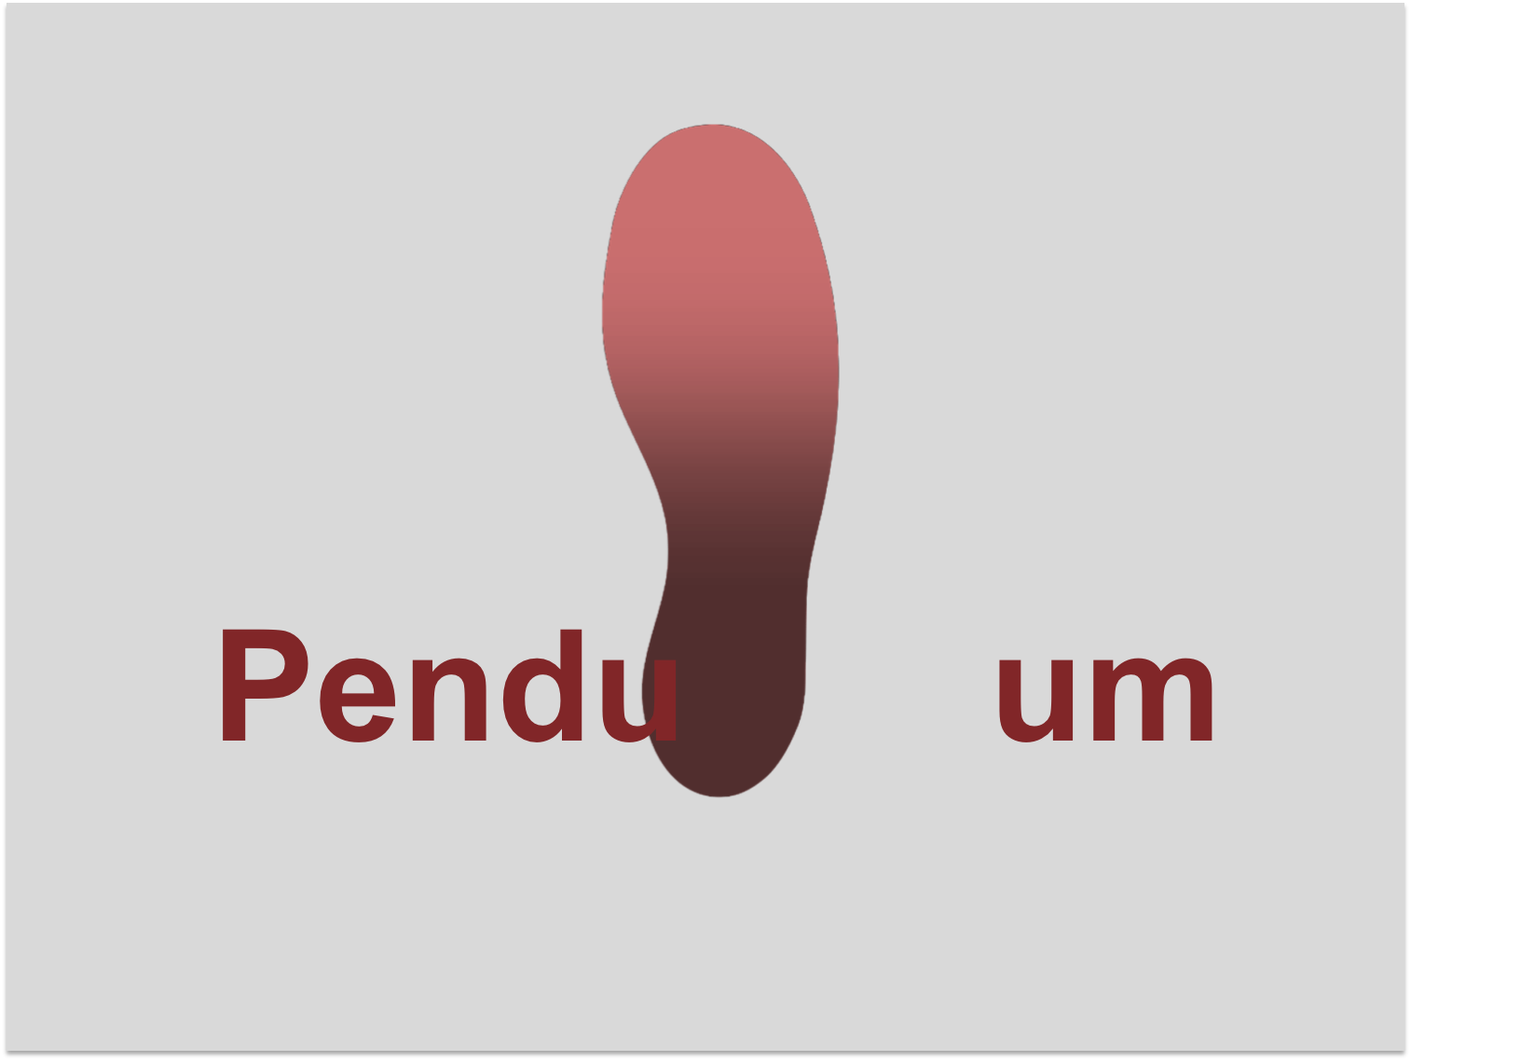
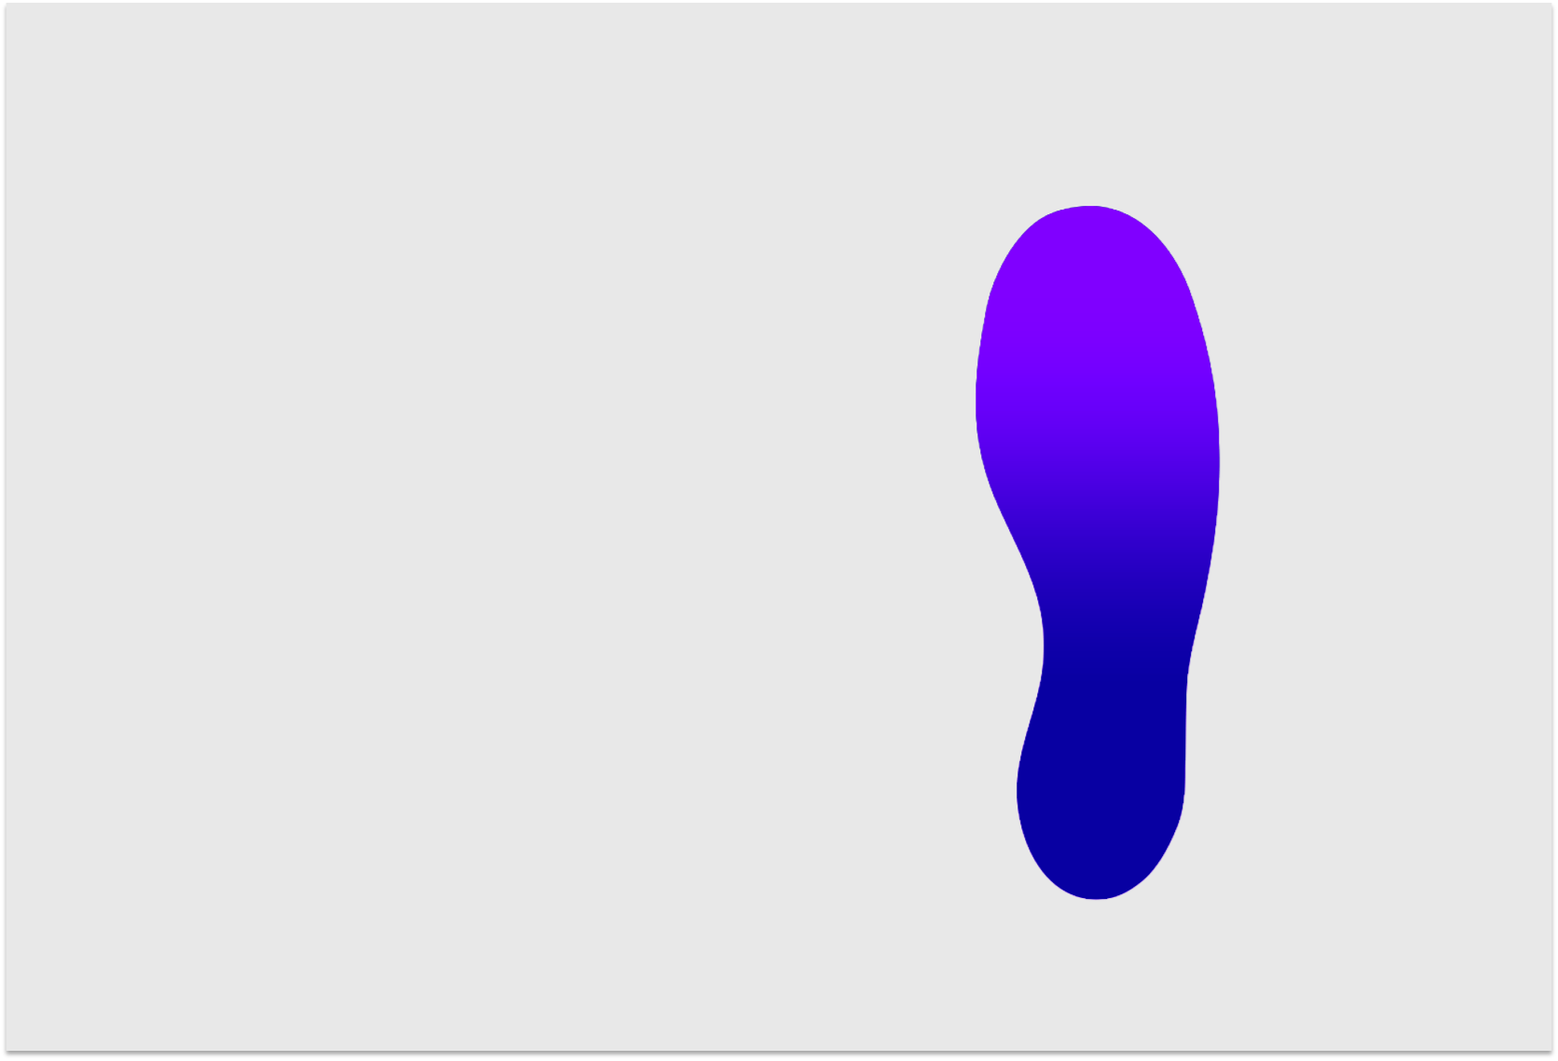
First Version

Changed region(s): [[0.1239, 0.0922, 0.5577, 0.7682], [0.6197, 0.1844, 0.8056, 0.8604], [0.8985, 0.0, 1.0, 1.0]]

diff --git a/index.html b/index.html
@@ -11,7 +11,7 @@
 	function gtag(){dataLayer.push(arguments);}
 	gtag('js', new Date());
 
-	gtag('config', 'UA-119793705-1');
+	gtag(config', 'UA-119793705-1');
 	</script>
 
 
@@ -47,7 +47,7 @@
     <nav class="navbar navbar-expand-lg navbar-dark fixed-top" id="mainNav">
       <div class="container">
          <a class="navbar-brand" href="#">
-          <img src="img/sole.png" width="160" height="80" alt="">
+          <img src="img/sole.png" width="40" height="70" alt="">
         </a>
 		  <button class="navbar-toggler navbar-toggler-right" type="button" data-toggle="collapse" data-target="#navbarResponsive" aria-controls="navbarResponsive" aria-expanded="false" aria-label="Toggle navigation">
           <span class="navbar-toggler-icon"></span>
@@ -58,7 +58,7 @@
 				<a class="nav-link js-scroll-trigger"href="#about">About</a>
             </li>
 			<li class="nav-item">
-              <a class="nav-link js-scroll-trigger" href="#services">How it works</a>
+              <a class="nav-link js-scroll-trigger" href="#services">Features</a>
 			</li>
             <li class="nav-item">
               <a class="nav-link js-scroll-trigger" href="#team">Team</a>
@@ -74,30 +74,60 @@
       </div>
     </nav>
 
-    <header class="masthead text-center text-white d-flex">
-      <div class="container my-auto">
-        <div class="row">
-          <div class="col-lg-10 mx-auto">
+
+
+    <header class="masthead">
+      <div class="container h-100">
+        <div class="row h-100">
+          <div class="col-lg-7 my-auto">
             <h1 class="text-uppercase">
-              <strong>The connected wearable device for senior adults</strong>
+				<strong>Pendulum</strong> <br><h2 class="section-heading">The smart insole for senior adults</h2>
             </h1>
-            <hr>
           </div>
-          <div class="col-lg-8 mx-auto">
-			  <p><strong>Pendulum is the IoT insole that connects ...</strong></p>
-            <a class="btn btn-primary btn-xl js-scroll-trigger" href="#about">Find Out More</a>
+
           </div>
         </div>
       </div>
     </header>
 
-    <section class="bg-primary" id="about">
+
+        <!--
+      <header class="masthead">
+      <div class="container h-100">
+        <div class="row h-100">
+          <div class="col-lg-7 my-auto">
+            <div class="header-content mx-auto">
+              <h1 class="mb-5">Pendulum is the smart insole that prevents falls in senior adults</h1>
+              <a href="#download" class="btn btn-outline btn-xl js-scroll-trigger">Start Now for Free!</a>
+            </div>
+          </div>
+          <div class="col-lg-5 my-auto">
+          <div class="device-container">
+              <div class="device-mockup iphone6_plus portrait white">
+                <div class="device">
+                  <div class="screen">
+                    Demo image for screen mockup, you can put an image here, some HTML, an animation, video, or anything else!
+						 <img src="img/sole.png" class="img-fluid" alt="">
+                  </div>
+                  <div class="button">
+                     You can hook the "home button" to some JavaScript events or just remove it
+                  </div>
+                </div>
+              </div>
+            </div>
+          </div>
+        </div>
+      </div>
+    </header>
+	--!>
+
+ <section class="bg-primary" id="about">
       <div class="container">
         <div class="row">
           <div class="col-lg-8 mx-auto text-center">
-			  <h2 class="section-heading text-white"> IoT is for millenials<br> IoT is for the elderly</h2>
+			  <h2 class="section-heading text-white"> IoT for the elderly<br> </h2>
             <hr class="light my-4">
-			<p class="text-faded mb-4">The current tests for AD detection are time consuming and focused on late stages of the disease. Philyra uses AI to design non invasive and real time tests that can speed up patient treatments and cut medical costs.   </p>
+			<p class="text-faded mb-4"> Our connected insole allows senior adults and their relatives to track their gait characteristics and get recommendations on simple but effective exercises targeted at preventing the risk of falling  </p>
             <a class="btn btn-light btn-xl js-scroll-trigger" href="#services">Get Started!</a>
           </div>
         </div>
@@ -105,7 +135,107 @@
     </section>
 
 
-    <!-- Services -->
+	<section class="bg-light" id="about">
+	<div class="container">
+	<div class="row">
+	<div class="col-lg-12 text-center">
+	<h2 class="section-heading">About Pendulum</h2>
+	<hr class="my-4">
+	</div>
+	</div>
+	<div class="text-center">
+	<img src="img/howitworks.png" class="img-responsive" width="1200">
+	</div>
+	</div>
+	</section>
+
+
+
+	<section class="bg-light" id="services">
+	<div class="container">
+	<div class="row">
+	<div class="col-lg-12 text-center">
+	<h2 class="section-heading">How it works</h2>
+	<hr class="my-4">
+	</div>
+	</div>
+	<div class="text-center">
+	<img src="img/about.png" class="img-responsive" width="1200">
+	</div>
+	</div>
+	</section>
+
+
+
+     <!--
+        <section class="features" id="features">
+      <div class="container">
+        <div class="section-heading text-center">
+          <h2>Unlimited Features, Unlimited Fun</h2>
+          <p class="text-muted">Check out what you can do with this app theme!</p>
+          <hr>
+        </div>
+        <div class="row">
+          <div class="col-lg-4 my-auto">
+            <div class="device-container">
+              <div class="device-mockup iphone6_plus portrait white">
+                <div class="device">
+                  <div class="screen">
+                    <img src="img/img1" class="img-fluid" alt="">
+                  </div>
+                  <div class="button">
+
+                  </div>
+                </div>
+              </div>
+            </div>
+          </div>
+          <div class="col-lg-8 my-auto">
+            <div class="container-fluid">
+              <div class="row">
+                <div class="col-lg-6">
+                  <div class="feature-item">
+                    <i class="icon-screen-smartphone text-primary"></i>
+                    <h3>Device Mockups</h3>
+                    <p class="text-muted">Ready to use HTML/CSS device mockups, no Photoshop required!</p>
+                  </div>
+                </div>
+                <div class="col-lg-6">
+                  <div class="feature-item">
+                    <i class="icon-camera text-primary"></i>
+                    <h3>Flexible Use</h3>
+                    <p class="text-muted">Put an image, video, animation, or anything else in the screen!</p>
+                  </div>
+                </div>
+              </div>
+              <div class="row">
+                <div class="col-lg-6">
+                  <div class="feature-item">
+                    <i class="icon-present text-primary"></i>
+                    <h3>Free to Use</h3>
+                    <p class="text-muted">As always, this theme is free to download and use for any purpose!</p>
+                  </div>
+                </div>
+                <div class="col-lg-6">
+                  <div class="feature-item">
+                    <i class="icon-lock-open text-primary"></i>
+                    <h3>Open Source</h3>
+                    <p class="text-muted">Since this theme is MIT licensed, you can use it commercially!</p>
+                  </div>
+                </div>
+              </div>
+            </div>
+          </div>
+        </div>
+      </div>
+    </section>
+
+
+	--!>
+
+
+
+	<!-- Services
     <section id="services">
       <div class="container">
         <div class="row">
@@ -116,11 +246,9 @@
         </div>
         <div class="row text-center">
           <div class="col-md-4">
-            <span class="fa-stack fa-4x">
-              <i class="fa fa-circle fa-stack-2x text-primary"></i>
-              <i class="fa fa-file-text-o fa-stack-1x fa-inverse"></i>
-            </span>
-			<h4 class="service-heading">Upload you olfactory data</h4>
+              <img src="img/img1.png" class="img-responsive">
+			  </div>
+			<h4 class="service-heading">You have your profile </h4>
             <p class="text-muted">Just upload your file, we take care of the format. Your data stays anonymous and private</p> </div>
           <div class="col-md-4">
             <span class="fa-stack fa-4x">
@@ -141,9 +269,9 @@
         </div>
       </div>
 	</section>
-
-
-
+	-->
+	--!>
+   <!--
 
 	<section class="bg-dark text-white">
 		<div class="container text-center">
@@ -151,6 +279,12 @@
 			<a class="btn btn-light btn-xl sr-button" href="mailto:info@philyra.io">Ask us how to upload your data</a>
 		</div>
 	</section>
+
+	--!>
+
+
+
+
 
     <!-- Team -->
     <section class="bg-light" id="team">
@@ -166,38 +300,38 @@
           <div class="col-md-6">
 			  <!-- <div class="col-sm-6 text-center"> -->
 			  <div class="team-member">
-              <img class="mx-auto rounded-circle" src="img/Micol.png" alt="">
-			  <p></p>
-			  <h4>Dr Micol de Ruvo</h4>
-			  <!--  <p class="text-muted">Co-Founder</p>  -->
-			  <!-- <div class="col-sm-9 text-center" -->
-			  <p class="text-muted">Masters in Biomedical Engineering and PhD in Computational Biology, with extensive experience in using algorithms to solve challenges in life science</p>
-			  <ul class="list-inline social-buttons">
-				<li class="list-inline-item">
-                   <a href="https://www.linkedin.com/in/micol-de-ruvo/">
-					<i class="fa fa-linkedin"></i>
-				   </a>
-                </li>
-               </ul>
-			   <!--   </div>  -->
-			</div>
-          </div>
-          <div class="col-sm-6 text-center">
-            <div class="team-member">
-              <img class="mx-auto rounded-circle" src="img/AlexDancu.png" alt="">
-			  <p></p>
-			  <h4>Dr Alexander Dancu</h4>
-			  <!--  <p class="text-muted">Co-Founder</p>  -->
-              <p class="text-muted">PhD in Human-Computer interaction and Postdoc in Singapore and MIT Media Lab</p>
-			  <ul class="list-inline social-buttons">
-                <li class="list-inline-item">
-                  <a href="https://www.linkedin.com/in/alexandru-dancu/">
-                    <i class="fa fa-linkedin"></i>
-                  </a>
-                </li>
-              </ul>
-            </div>
-          </div>
+				<img class="mx-auto rounded-circle" src="img/AlexDancu.png" alt="">
+					  <p></p>
+					  <h4>Dr Alexandru Dancu</h4>
+					  <!--  <p class="text-muted">Co-Founder</p>  -->
+					  <p class="text-muted">Masters in Embedded Systems, PhD in Human-Computer Interaction and Postdoc at MIT Media Lab and Augmented Human Lab, where he gained solid experience in wearable devices. </p>
+					  <ul class="list-inline social-buttons">
+						  <li class="list-inline-item">
+							  <a href="https://www.linkedin.com/in/alexandru-dancu/">
+								  <i class="fa fa-linkedin"></i>
+							  </a>
+						  </li>
+					  </ul>
+				  </div>
+			  </div>
+              <div class="col-sm-6 text-center">
+			  <div class="team-member">
+				  <img class="mx-auto rounded-circle" src="img/Micol.png" alt="">
+				  <p></p>
+				  <h4>Dr Micol de Ruvo</h4>
+				  <!--  <p class="text-muted">Co-Founder</p>  -->
+				  <!-- <div class="col-sm-9 text-center" -->
+				  <p class="text-muted">Masters in Biomedical Engineering and PhD in Computational Biology, with extensive experience in using algorithms to solve challenges in life science</p>
+				  <ul class="list-inline social-buttons">
+					  <li class="list-inline-item">
+						  <a href="https://www.linkedin.com/in/micol-de-ruvo/">
+							  <i class="fa fa-linkedin"></i>
+						  </a>
+					  </li>
+				  </ul>
+				  <!--   </div>  -->
+			  </div>
+		  </div>
       </div>
     </section>
 
@@ -207,20 +341,20 @@
       <div class="container">
         <div class="row">
           <div class="col-lg-12 text-center">
-            <h2 class="section-heading">Selected Publications from the Philyra Team</h2>
+            <h2 class="section-heading">Selected Papers from our Team</h2>
 			 <hr class="my-4">
 		  </div>
 		</div>
         <div class="row">
           <div class="col-lg-4 ml-auto">
-			  <p class="text-muted"> Wudarczyk, O. et al. (2015). Chemosensory anxiety cues moderate the experience of social exclusion – an fMRI investigation with Cyberball. Frontiers in Psychology, 6: 1475.
+			  <p class="text-muted">
 			</p>
           </div>
           <div class="col-lg-4 mr-auto">
-            <p class="text-muted">Wudarczyk, O. et al. (2016). Chemosensory anxiety cues enhance the perception of fearful faces – An fMRI study. NeuroImage, 143: 214-222.</p>
+            <p class="text-muted">R. Boldu, A. Dancu, D. J. C. Matthies, T. Buddhika, S. Siriwardhana, and S. Nanayakkara, "FingerReader2.0: Designing and Evaluating a Wearable Finger-WornCamera to Assist People with Visual Impairments while Shopping", in International Conference on Ubiquitous Computing, 2018.</p>
           </div>
 	      <div class="col-lg-4 mr-auto">
-			  <p class="text-muted"> Wudarczyk, O. et al. (2016). Follow your nose: Implicit spatial processing within the chemosensory systems. Journal of Experimental Psychology: Human Perception and Performance, 42(11): 1780-1792.</p>
+			  <p class="text-muted"> </p>
 		</div>
 
        <!--
@@ -286,7 +420,7 @@
     <div class="col-lg-6 mx-auto text-center" id="form_container">
         <h2>Let's get in touch!</h2>
         <p>
-		Ready to collaborate with us or curious to know more about Philyra? <br>Drop us a message, we will contact you the earliest
+		Want to know more about Pendulum? <br>Drop us a message, we will contact you the earliest
         </p>
 		<form action="http://formspree.io/micol.deruvo@gmail.com" method="post"> <!-- id="form" class="contact-form"> -->
 

diff --git a/css/creative.min.css b/css/creative.min.css
@@ -1,1 +1,1 @@
-body,html{width:100%;height:100%}body{font-family:Merriweather,'Helvetica Neue',Arial,sans-serif}hr{max-width:50px;border-width:3px;border-color:#f05f40}hr.light{border-color:#fff}a{color:#f05f40;-webkit-transition:all .2s;-moz-transition:all .2s;transition:all .2s}a:hover{color:#f05f40}h1,h2,h3,h4,h5,h6{font-family:'Open Sans','Helvetica Neue',Arial,sans-serif}.bg-primary{background-color:#f05f40!important}.bg-dark{background-color:#212529!important}.text-faded{color:rgba(255,255,255,.7)}section{padding:8rem 0}.section-heading{margin-top:0}::-moz-selection{color:#fff;background:#212529;text-shadow:none}::selection{color:#fff;background:#212529;text-shadow:none}img::selection{color:#fff;background:0 0}img::-moz-selection{color:#fff;background:0 0}#mainNav{border-bottom:1px solid rgba(33,37,41,.1);background-color:#fff;font-family:'Open Sans','Helvetica Neue',Arial,sans-serif;-webkit-transition:all .2s;-moz-transition:all .2s;transition:all .2s}#mainNav .navbar-brand{font-weight:700;text-transform:uppercase;color:#f05f40;font-family:'Open Sans','Helvetica Neue',Arial,sans-serif}#mainNav .navbar-brand:focus,#mainNav .navbar-brand:hover{color:#f05f40}#mainNav .navbar-nav>li.nav-item>a.nav-link,#mainNav .navbar-nav>li.nav-item>a.nav-link:focus{font-size:.9rem;font-weight:700;text-transform:uppercase;color:#212529}#mainNav .navbar-nav>li.nav-item>a.nav-link:focus:hover,#mainNav .navbar-nav>li.nav-item>a.nav-link:hover{color:#f05f40}#mainNav .navbar-nav>li.nav-item>a.nav-link.active,#mainNav .navbar-nav>li.nav-item>a.nav-link:focus.active{color:#f05f40!important;background-color:transparent}#mainNav .navbar-nav>li.nav-item>a.nav-link.active:hover,#mainNav .navbar-nav>li.nav-item>a.nav-link:focus.active:hover{background-color:transparent}@media (min-width:992px){#mainNav{border-color:transparent;background-color:transparent}#mainNav .navbar-brand{color:rgba(255,255,255,.7)}#mainNav .navbar-brand:focus,#mainNav .navbar-brand:hover{color:#fff}#mainNav .navbar-nav>li.nav-item>a.nav-link{padding:.5rem 1rem}#mainNav .navbar-nav>li.nav-item>a.nav-link,#mainNav .navbar-nav>li.nav-item>a.nav-link:focus{color:rgba(255,255,255,.7)}#mainNav .navbar-nav>li.nav-item>a.nav-link:focus:hover,#mainNav .navbar-nav>li.nav-item>a.nav-link:hover{color:#fff}#mainNav.navbar-shrink{border-bottom:1px solid rgba(33,37,41,.1);background-color:#fff}#mainNav.navbar-shrink .navbar-brand{color:#f05f40}#mainNav.navbar-shrink .navbar-brand:focus,#mainNav.navbar-shrink .navbar-brand:hover{color:#f05f40}#mainNav.navbar-shrink .navbar-nav>li.nav-item>a.nav-link,#mainNav.navbar-shrink .navbar-nav>li.nav-item>a.nav-link:focus{color:#212529}#mainNav.navbar-shrink .navbar-nav>li.nav-item>a.nav-link:focus:hover,#mainNav.navbar-shrink .navbar-nav>li.nav-item>a.nav-link:hover{color:#f05f40}}header.masthead{padding-top:10rem;padding-bottom:calc(10rem - 56px);background-image:url(../img/sole.png);background-position:center center;-webkit-background-size:cover;-moz-background-size:cover;-o-background-size:cover;background-size:cover}header.masthead hr{margin-top:30px;margin-bottom:30px}header.masthead h1{font-size:2rem}header.masthead p{font-weight:300}@media (min-width:768px){header.masthead p{font-size:1.15rem}}@media (min-width:992px){header.masthead{height:100vh;min-height:650px;padding-top:0;padding-bottom:0}header.masthead h1{font-size:3rem}}@media (min-width:1200px){header.masthead h1{font-size:4rem}}.service-box{max-width:400px}.portfolio-box{position:relative;display:block;max-width:650px;margin:0 auto}.portfolio-box .portfolio-box-caption{position:absolute;bottom:0;display:block;width:100%;height:100%;text-align:center;opacity:0;color:#fff;background:rgba(240,95,64,.9);-webkit-transition:all .2s;-moz-transition:all .2s;transition:all .2s}.portfolio-box .portfolio-box-caption .portfolio-box-caption-content{position:absolute;top:50%;width:100%;transform:translateY(-50%);text-align:center}.portfolio-box .portfolio-box-caption .portfolio-box-caption-content .project-category,.portfolio-box .portfolio-box-caption .portfolio-box-caption-content .project-name{padding:0 15px;font-family:'Open Sans','Helvetica Neue',Arial,sans-serif}.portfolio-box .portfolio-box-caption .portfolio-box-caption-content .project-category{font-size:14px;font-weight:600;text-transform:uppercase}.portfolio-box .portfolio-box-caption .portfolio-box-caption-content .project-name{font-size:18px}.portfolio-box:hover .portfolio-box-caption{opacity:1}.portfolio-box:focus{outline:0}@media (min-width:768px){.portfolio-box .portfolio-box-caption .portfolio-box-caption-content .project-category{font-size:16px}.portfolio-box .portfolio-box-caption .portfolio-box-caption-content .project-name{font-size:22px}}.text-primary{color:#f05f40!important}.btn{font-weight:700;text-transform:uppercase;border:none;border-radius:300px;font-family:'Open Sans','Helvetica Neue',Arial,sans-serif}.btn-xl{padding:1rem 2rem}.btn-primary{background-color:#f05f40;border-color:#f05f40}.btn-primary:active,.btn-primary:focus,.btn-primary:hover{color:#fff;background-color:#ee4b28!important}.btn-primary:active,.btn-primary:focus{box-shadow:0 0 0 .2rem rgba(240,95,64,.5)!important}
+body,html{width:100%;height:100%}body{font-family:Merriweather,'Helvetica Neue',Arial,sans-serif}hr{max-width:50px;border-width:3px;border-color:#fff68f}hr.light{border-color:#eae8e7}a{color:#181aa1;-webkit-transition:all .2s;-moz-transition:all .2s;transition:all .2s}a:hover{color:#181aa1}h1,h2,h3,h4,h5,h6{font-family:'Open Sans','Helvetica Neue',Arial,sans-serif}.bg-primary{background-color:#181aa1!important}.bg-dark{background-color:#181aa1!important}.text-faded{color:rgba(255,255,255,.7)}section{padding:8rem 0}.section-heading{margin-top:0}::-moz-selection{color:#eae8e7;background:#181aa1;text-shadow:none}::selection{color:#eae8e7;background:#181aa1;text-shadow:none}img::selection{color:#eae8e7;background:0 0}img::-moz-selection{color:#eae8e7;background:0 0}#mainNav{border-bottom:1px solid rgba(33,37,41,.1);background-color:#181aa1;font-family:'Open Sans','Helvetica Neue',Arial,sans-serif;-webkit-transition:all .2s;-moz-transition:all .2s;transition:all .2s}#mainNav .navbar-brand{font-weight:700;text-transform:uppercase;color:#181aa1;font-family:'Open Sans','Helvetica Neue',Arial,sans-serif}#mainNav .navbar-brand:focus,#mainNav .navbar-brand:hover{color:#181aa1}#mainNav .navbar-nav>li.nav-item>a.nav-link,#mainNav .navbar-nav>li.nav-item>a.nav-link:focus{font-size:.9rem;font-weight:700;text-transform:uppercase;color:#181aa1}#mainNav .navbar-nav>li.nav-item>a.nav-link:focus:hover,#mainNav .navbar-nav>li.nav-item>a.nav-link:hover{color:##181aa1}#mainNav .navbar-nav>li.nav-item>a.nav-link.active,#mainNav .navbar-nav>li.nav-item>a.nav-link:focus.active{color:#181aa1!important;background-color:transparent}#mainNav .navbar-nav>li.nav-item>a.nav-link.active:hover,#mainNav .navbar-nav>li.nav-item>a.nav-link:focus.active:hover{background-color: rgba(33,37,41,.1)}@media (min-width:992px){#mainNav{border-color:transparent;background-color:transparent}#mainNav .navbar-brand{color:rgba(255,255,255,.7)}#mainNav .navbar-brand:focus,#mainNav .navbar-brand:hover{color:#d4cecd}#mainNav .navbar-nav>li.nav-item>a.nav-link{padding:.5rem 1rem}#mainNav .navbar-nav>li.nav-item>a.nav-link,#mainNav .navbar-nav>li.nav-item>a.nav-link:focus{color:#212529}#mainNav .navbar-nav>li.nav-item>a.nav-link:focus:hover,#mainNav .navbar-nav>li.nav-item>a.nav-link:hover{color:#d4cecd}#mainNav.navbar-shrink{border-bottom:1px solid rgba(33,37,41,.1);background-color:#eae8e7}#mainNav.navbar-shrink .navbar-brand{color:#181aa1}#mainNav.navbar-shrink .navbar-brand:focus,#mainNav.navbar-shrink .navbar-brand:hover{color:#f05f40}#mainNav.navbar-shrink .navbar-nav>li.nav-item>a.nav-link,#mainNav.navbar-shrink .navbar-nav>li.nav-item>a.nav-link:focus{color:#212529}#mainNav.navbar-shrink .navbar-nav>li.nav-item>a.nav-link:focus:hover,#mainNav.navbar-shrink .navbar-nav>li.nav-item>a.nav-link:hover{color:#181aa1}}header.masthead{padding-top:10rem;padding-bottom:calc(10rem - 56px);background-image:url(../img/back_image.png);background-position:center center;-webkit-background-size:cover;-moz-background-size:cover;-o-background-size:cover;background-size:cover}header.masthead hr{margin-top:30px;margin-bottom:30px}header.masthead h1{font-size:2rem}header.masthead p{font-weight:300}@media (min-width:768px){header.masthead p{font-size:1.15rem}}@media (min-width:992px){header.masthead{height:100vh;min-height:650px;padding-top:0;padding-bottom:0}header.masthead h1{font-size:3rem}}@media (min-width:1200px){header.masthead h1{font-size:4rem}}.service-box{max-width:400px}.portfolio-box{position:relative;display:block;max-width:650px;margin:0 auto}.portfolio-box .portfolio-box-caption{position:absolute;bottom:0;display:block;width:100%;height:100%;text-align:center;opacity:0;color:#eae8e7;background:rgba(240,95,64,.9);-webkit-transition:all .2s;-moz-transition:all .2s;transition:all .2s}.portfolio-box .portfolio-box-caption .portfolio-box-caption-content{position:absolute;top:50%;width:100%;transform:translateY(-50%);text-align:center}.portfolio-box .portfolio-box-caption .portfolio-box-caption-content .project-category,.portfolio-box .portfolio-box-caption .portfolio-box-caption-content .project-name{padding:0 15px;font-family:'Open Sans','Helvetica Neue',Arial,sans-serif}.portfolio-box .portfolio-box-caption .portfolio-box-caption-content .project-category{font-size:14px;font-weight:600;text-transform:uppercase}.portfolio-box .portfolio-box-caption .portfolio-box-caption-content .project-name{font-size:18px}.portfolio-box:hover .portfolio-box-caption{opacity:1}.portfolio-box:focus{outline:0}@media (min-width:768px){.portfolio-box .portfolio-box-caption .portfolio-box-caption-content .project-category{font-size:16px}.portfolio-box .portfolio-box-caption .portfolio-box-caption-content .project-name{font-size:22px}}.text-primary{color:#181aa1!important}.btn{font-weight:700;text-transform:uppercase;border:none;border-radius:300px;font-family:'Open Sans','Helvetica Neue',Arial,sans-serif}.btn-xl{padding:1rem 2rem}.btn-primary{background-color:#181aa1;border-color:#181aa1}.btn-primary:active,.btn-primary:focus,.btn-primary:hover{color:#eae8e7;background-color:#181aa1!important}.btn-primary:active,.btn-primary:focus{box-shadow:0 0 0 .2rem rgba(240,95,64,.5)!important}
